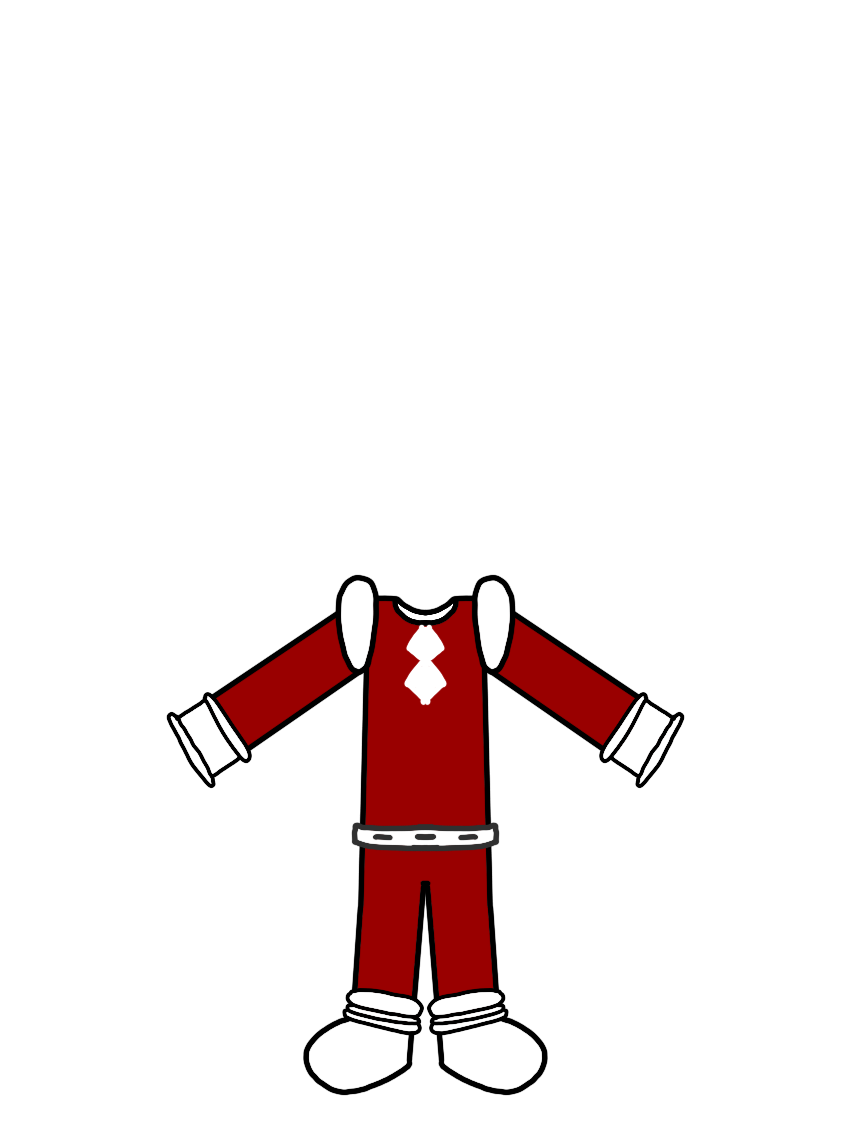
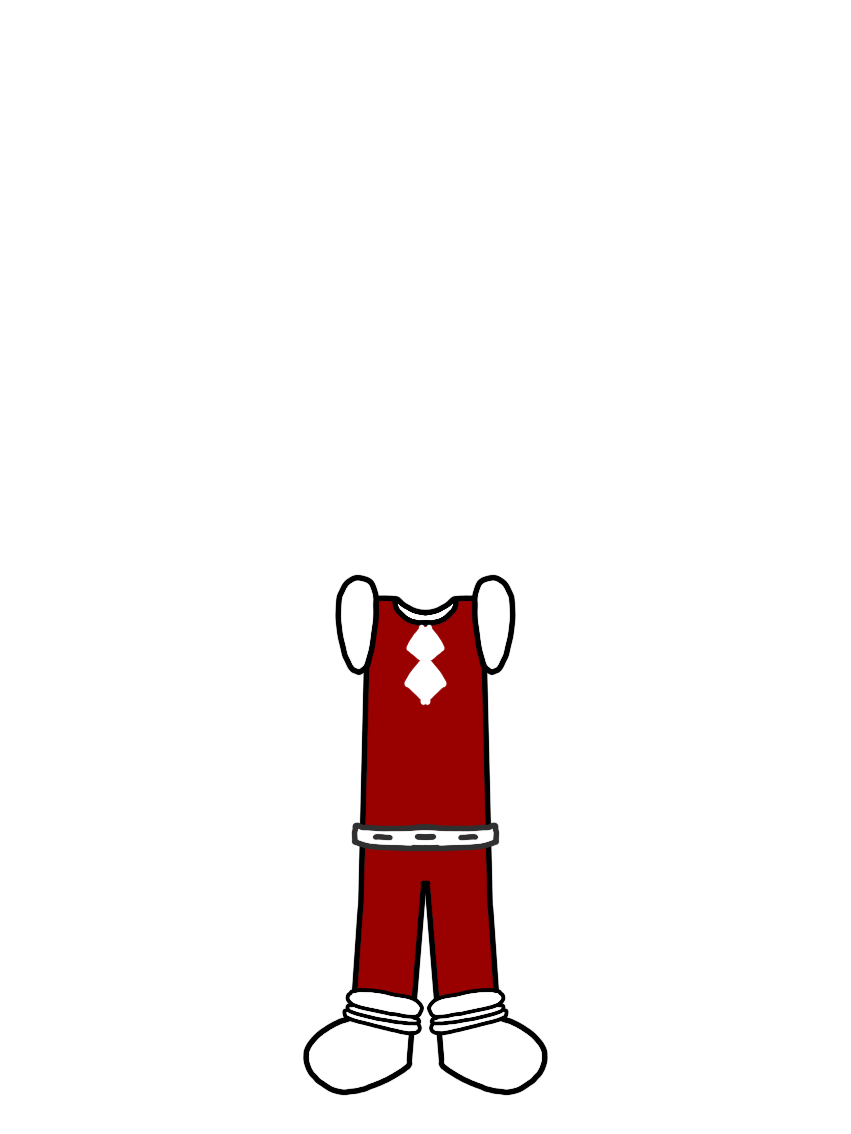
Zombie: whole sleeves on the arms; only the zombie's clothes in Dress Up
- Sleeves can be their own pictures, <garment>_arm_L.png / _arm_R.png. Each
  is carried whole by its arm instead of being cut along the arm's region,
  which chopped the sleeve at the shoulder and left bare arm when it swung.
  Drawn under the body, like the arm (also on the still sprite).
- bodysuit1.png is the bodysuit alone again; its sleeves are
  bodysuit1_arm_L.png / bodysuit1_arm_R.png.
- Wardrobe: boxers1 and bodysuit1 only. The girl's clothes and their
  pictures are removed.

Claude-Session: https://claude.ai/code/session_01Wn7fhuwzoRLdsKbXyAy2md

Changed region(s): [[0.5805, 0.5247, 0.8249, 0.7099], [0.1833, 0.5247, 0.4277, 0.7099]]

diff --git a/pet_desktop.js b/pet_desktop.js
@@ -167,6 +167,11 @@
     if (pet.img && pet.img.complete && pet.img.naturalWidth) {
       ctx.drawImage(pet.img, x, y, w, h);
     }
+    // Sleeves first: on the ragdoll they sit under the body, as here.
+    if (typeof window.drawOutfitOverlay === 'function') {
+      window.drawOutfitOverlay(ctx, 'stand', x, y, w, h, null, 'arm_L');
+      window.drawOutfitOverlay(ctx, 'stand', x, y, w, h, null, 'arm_R');
+    }
     // Clothes on top, layered by z and tinted, straight from the outfit system.
     if (typeof window.drawOutfitOverlay === 'function') {
       window.drawOutfitOverlay(ctx, 'stand', x, y, w, h);
@@ -227,6 +232,7 @@
     // Plus each garment's optional _over / _under layers (see outfit_system.js).
     const sized = () => { const c = document.createElement('canvas'); c.width = cloth.width; c.height = cloth.height; return c; };
     const hang = sized(), over = sized(), under = sized(), blow = sized(), stiff = sized();
+    const arms = { arm_L: sized(), arm_R: sized() };
     let blowFrom = Infinity;
     if (typeof window.drawOutfitOverlay === 'function') {
       window.drawOutfitOverlay(cloth.getContext('2d'), 'stand', 0, 0, cloth.width, cloth.height, it => !it.stiff && !it.blows);
@@ -241,8 +247,10 @@
       // Stiff garments stay whole over the chest (their sleeves still follow the arms).
       window.drawOutfitOverlay(stiff.getContext('2d'), 'stand', 0, 0, cloth.width, cloth.height, it => it.stiff);
       window.drawOutfitOverlay(under.getContext('2d'), 'stand', 0, 0, cloth.width, cloth.height, null, 'under');
+      // Sleeves drawn as their own pictures go whole with their arm.
+      for (const id in arms) window.drawOutfitOverlay(arms[id].getContext('2d'), 'stand', 0, 0, cloth.width, cloth.height, null, id);
     }
-    pet.body.buildArt(pet.partImgs, cloth, cs, hang, over, under, blow, isFinite(blowFrom) ? blowFrom : null, stiff);
+    pet.body.buildArt(pet.partImgs, cloth, cs, hang, over, under, blow, isFinite(blowFrom) ? blowFrom : null, stiff, arms);
   }
 
   // Feed the scene's state to the skeleton.

diff --git a/outfit_config.js b/outfit_config.js
@@ -40,6 +40,10 @@
 //  would tear where the bouncing chest meets the body. Mark it
 //  { id: "top1", stiff: true } and it stays whole on the body.
 //
+//  SLEEVES: <name>_arm_L.png / <name>_arm_R.png (optional) are the garment's
+//  sleeves, one picture per arm. Each goes with its arm whole, never cut up,
+//  and is drawn under the body like the arm itself.
+//
 //  This is a plain JS file (no network/JSON loading) so it can't glitch or
 //  fail to load mid-run — it's the smoothest, simplest setup.
 // ===========================================================
@@ -73,20 +77,8 @@ window.OUTFIT_CONFIG = {
   // THE WARDROBE — every garment the one pet can wear.
   // -------------------------------------------------------------------------
   pet: {
-    topUnderwear:      ["topunderwear1", "topunderwear2", "topunderwear3", "topunderwear4"],
-    bottomUnderwear:   [{ id: "bottomunderwear1", hangs: true }, "bottomunderwear2", "bottomunderwear3", "bottomunderwear4", "boxers1"],
-    onepieceUnderwear: ["onepieceunderwear1"],
-    top:               [{ id: "top1", stiff: true }],
-    bottom:            ["pants1", { id: "skirt1", blows: true }],
-    dress:             ["dress1"],
+    bottomUnderwear:   ["boxers1"],
     bodysuit:          ["bodysuit1"],
-    socks:             ["socks1"],
-    shoes:             ["shoes1"],
-    glove:             ["glove1"],
-    bunnysuitbow:      ["bunnysuitbow1"],
-    glasses:           ["glasses1"],
-    ears:              ["ears1"],
-    hat:               ["hat1"],
   },
 
   // What the pet is wearing on a fresh start. Anything left out starts as None.

diff --git a/ragdoll.js b/ragdoll.js
@@ -601,7 +601,9 @@
     // stiff (optional): garments kept whole over the chest (a top): over the
     // chest they go on the body's over-the-chest layer, but their sleeves and
     // anything else on the arms, legs or head still go with those parts.
-    buildArt(imgs, cloth, cs, hang, over, under, blow, blowFrom, stiff) {
+    // armCloth (optional): { <part id>: canvas } of sleeves drawn as their own
+    // pictures; each is carried whole by that part, on top of its other clothes.
+    buildArt(imgs, cloth, cs, hang, over, under, blow, blowFrom, stiff, armCloth) {
       const CW = Math.round(CFG.SRC_W * cs), CH = Math.round(CFG.SRC_H * cs);
       const mk = (w, h) => { const c = document.createElement('canvas'); c.width = Math.max(1, w); c.height = Math.max(1, h); return c; };
       const mkRead = (w, h) => { const c = mk(w, h); return { c, x: c.getContext('2d', { willReadFrequently: true }) }; };
@@ -778,6 +780,11 @@
             }
           } else {
             w.x.clearRect(0, 0, CW, CH);
+          }
+          const sleeve = armCloth && armCloth[part.id];
+          if (sleeve) {
+            w.x.globalCompositeOperation = 'source-over';
+            w.x.drawImage(sleeve, 0, 0);
           }
           const wb = bboxOf(w.x);
           if (wb) { worn = w.c; box = box ? { x0: Math.min(box.x0, wb.x0), y0: Math.min(box.y0, wb.y0), x1: Math.max(box.x1, wb.x1), y1: Math.max(box.y1, wb.y1) } : wb; }

diff --git a/outfit_system.js b/outfit_system.js
@@ -162,6 +162,8 @@
         if (it) catalog[c.key].items[it.id] = {
           id: it.id, label: it.label, img: img(`${it.prefix}.png`),
           over: img(`${it.prefix}_over.png`), under: img(`${it.prefix}_under.png`),
+          // <name>_arm_L.png / _arm_R.png: the sleeves, carried whole by the arms.
+          arm_L: img(`${it.prefix}_arm_L.png`), arm_R: img(`${it.prefix}_arm_R.png`),
           hangs: it.hangs === undefined ? c.hangs : !!it.hangs,
           // `stiff`: one solid piece (a sports bra) that would tear if cut up
           // along the body: kept whole on the body, over the chest.
@@ -555,7 +557,7 @@
   };
 
   // `only` (optional): draw just the items it returns true for.
-  // `layer` (optional): 'over' or 'under' draws those extra layers instead.
+  // `layer` (optional): 'over', 'under', 'arm_L' or 'arm_R' draws those extra layers instead.
   window.drawOutfitOverlay = function (ctx, state, x, y, w, h, only, layer) {
     const catalog = window.dressUpCatalog || {};
     let drew = false;
